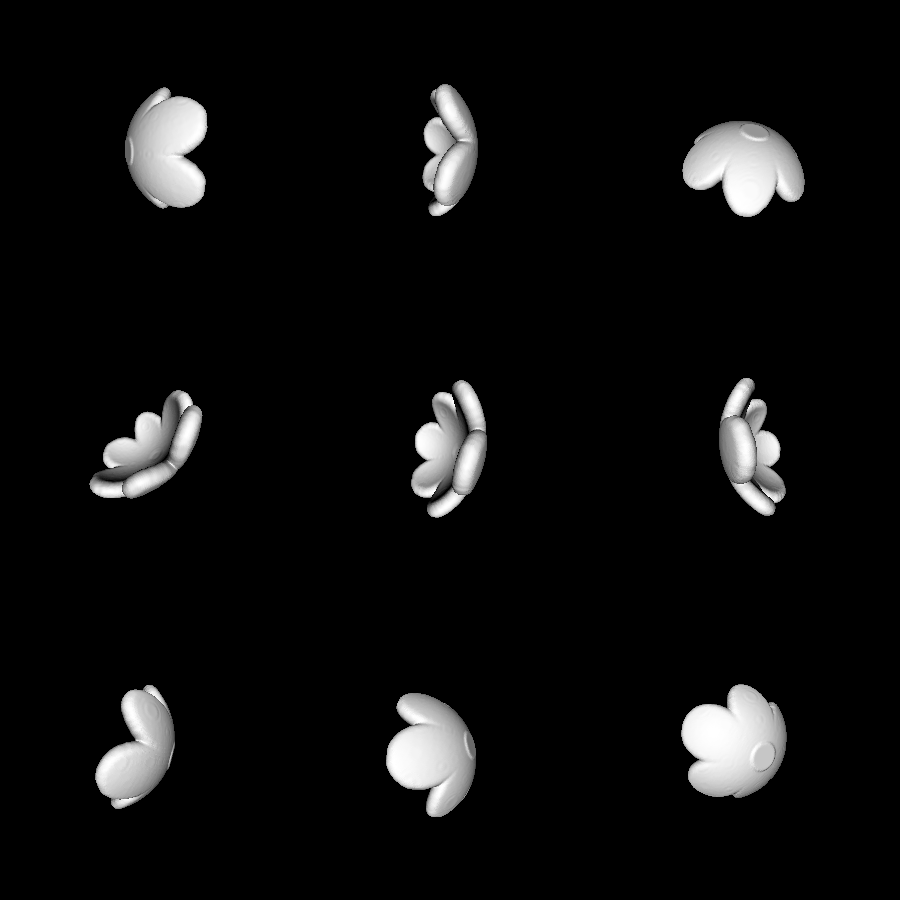
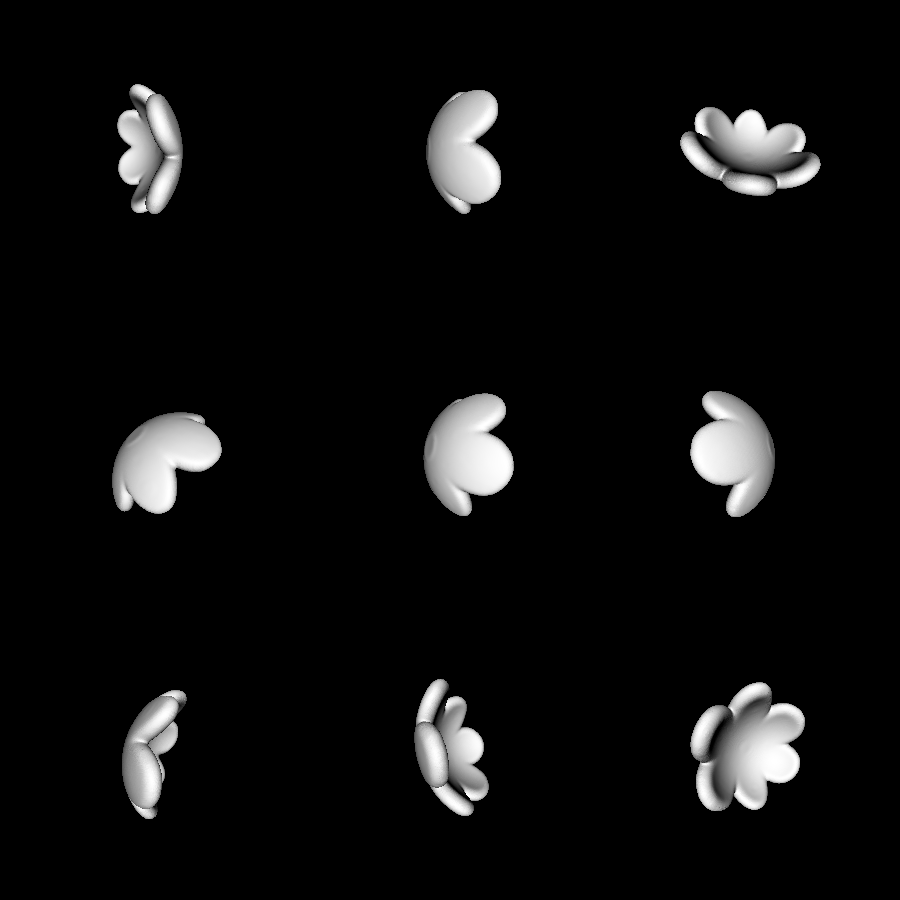
better flower results on actual printer

diff --git a/examples/decoration/wall_flower/main.go b/examples/decoration/wall_flower/main.go
@@ -24,22 +24,27 @@ func main() {
 		} else {
 			return 0
 		}
-	}, 300)
+	}, 500)
 	sphereMesh.Iterate(func(t *model3d.Triangle) {
 		if t[0].Norm() == 0 || t[1].Norm() == 0 || t[2].Norm() == 0 {
 			sphereMesh.Remove(t)
 		}
 	})
+	sphereMesh = sphereMesh.MapCoords(func(f model3d.Coord3D) model3d.Coord3D {
+		f.Z *= -1
+		f.Z += Radius
+		return f
+	})
 	solid := model3d.JoinedSolid{
 		model3d.NewColliderSolidHollow(model3d.MeshToCollider(sphereMesh), Thickness),
 		&model3d.CylinderSolid{
-			P1:     model3d.Coord3D{Z: Radius - Thickness},
-			P2:     model3d.Coord3D{Z: Radius + Thickness},
+			P1:     model3d.Coord3D{Z: -Thickness},
+			P2:     model3d.Coord3D{Z: Thickness},
 			Radius: BaseRadius,
 		},
 	}
 
-	mesh := model3d.SolidToMesh(solid, 0.01, 0, -1, 10)
+	mesh := model3d.SolidToMesh(solid, 0.01, 0, -1, 30)
 	mesh.SaveGroupedSTL("flower.stl")
 	model3d.SaveRandomGrid("rendering.png", model3d.MeshToCollider(mesh), 3, 3, 300, 300)
 }
